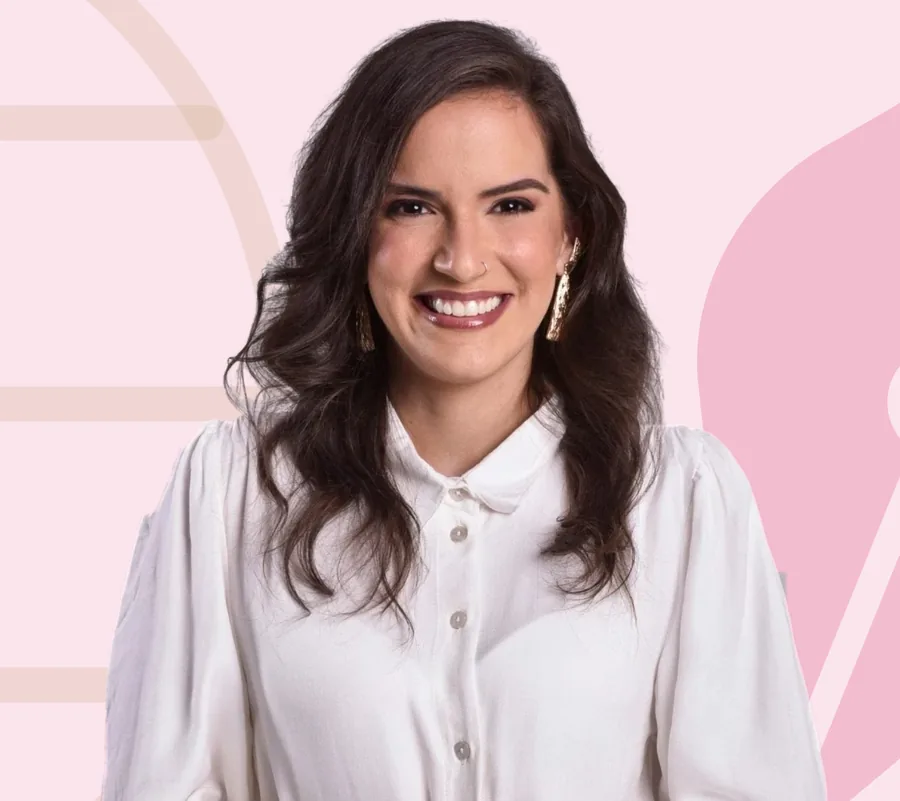
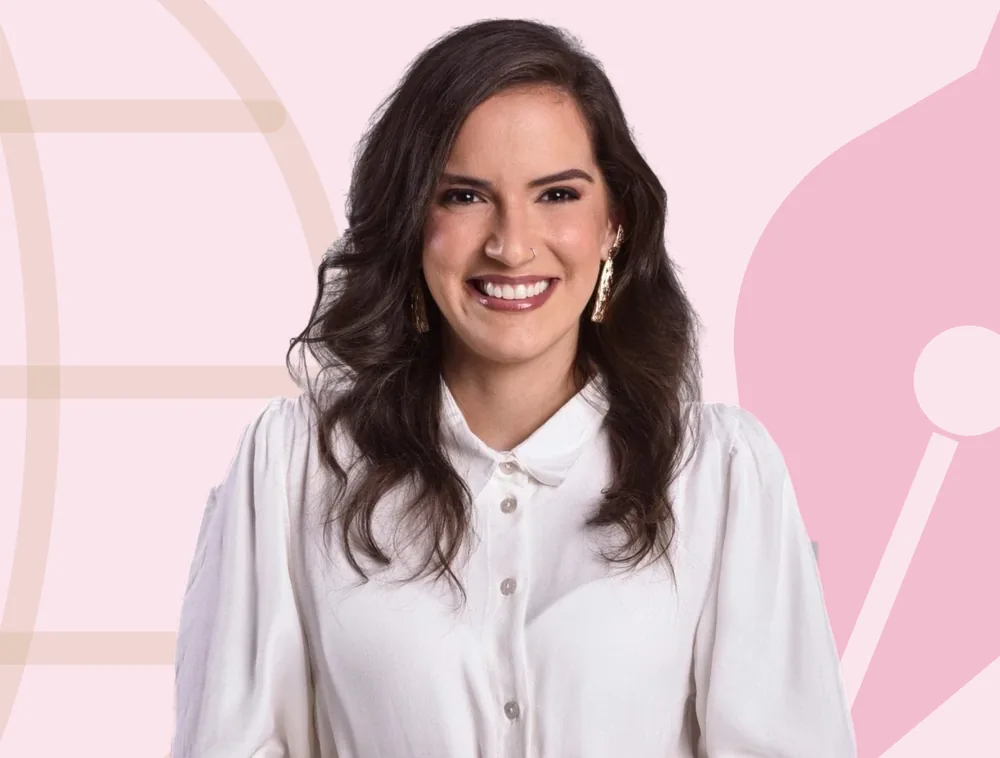
Fotos mais abertas e ordem dos cursos igual ao Time Radix

diff --git a/index.html b/index.html
@@ -139,8 +139,8 @@
     overflow: hidden; transition: transform .2s ease, border-color .2s ease, box-shadow .2s ease;
   }
   .card:hover { transform: translateY(-3px); border-color: color-mix(in srgb, var(--c) 45%, var(--line)); box-shadow: var(--shadow); }
-  .card-foto { position: relative; aspect-ratio: 9 / 7; background: color-mix(in srgb, var(--c) 14%, var(--surface)); border-bottom: 3px solid var(--c); overflow: hidden; }
-  .card-foto img { width: 100%; height: 100%; object-fit: cover; object-position: center top; display: block; transition: transform .3s ease; }
+  .card-foto { position: relative; aspect-ratio: 1000 / 758; background: color-mix(in srgb, var(--c) 14%, var(--surface)); border-bottom: 3px solid var(--c); overflow: hidden; }
+  .card-foto img { width: 100%; height: 100%; object-fit: cover; object-position: center bottom; display: block; transition: transform .3s ease; }
   .card:hover .card-foto img { transform: scale(1.03); }
   .badge {
     position: absolute; top: 14px; left: 14px; z-index: 1;
@@ -393,41 +393,42 @@
    preco: null    = "valor a definir". Número = valor integral do
                     curso; a página mostra também 10x (máximo do contrato).
    material: texto curto do valor do material (cobrado à parte).
-   foto: recorte do carrossel "Time Radix" do Instagram (time-*.webp).
+   foto: recorte do carrossel "Time Radix" do Instagram (time-*.webp);
+         ao trocar uma imagem, suba o ?v=N para furar o cache.
    ========================================================= */
 const RADIX_CURSOS = {
   whatsapp: '5584998131870',
   parcelasMax: 10,
   cursos: [
-    { id: 'matematica', classe: 'm', nome: 'Matemática', area: 'Exatas', prof: 'Hugo Gomes', foto: 'time-hugo.webp',
+    { id: 'matematica', classe: 'm', nome: 'Matemática', area: 'Exatas', prof: 'Hugo Gomes', foto: 'time-hugo.webp?v=2',
       modalidade: 'Presencial + online',
       itens: ['Terça presencial, das 8h30 às 12h ou das 14h30 às 18h', 'Quinta online e plataforma com aulas gravadas', 'Início em 28 de janeiro'],
       url: null, preco: 2800, material: 'Material R$ 360' },
-    { id: 'fisica', classe: 'f', nome: 'Física', area: 'Ciências da Natureza', prof: 'Rafael Medeiros', foto: 'time-rafael.webp',
+    { id: 'fisica', classe: 'f', nome: 'Física', area: 'Ciências da Natureza', prof: 'Rafael Medeiros', foto: 'time-rafael.webp?v=2',
       modalidade: 'Presencial + online',
       itens: ['Segunda presencial, das 14h às 17h30', 'Com Rafael Medeiros e Cezar Henrique', 'Início em 25 de janeiro'],
       url: null, preco: 3000, material: 'Material R$ 500 (4 volumes)' },
-    { id: 'biologia', classe: 'b', nome: 'Biologia', area: 'Ciências da Natureza', prof: 'Mateus Medeiros', foto: 'time-mateus.webp',
+    { id: 'biologia', classe: 'b', nome: 'Biologia', area: 'Ciências da Natureza', prof: 'Mateus Medeiros', foto: 'time-mateus.webp?v=2',
       modalidade: 'Presencial',
       itens: ['Quarta presencial, das 14h30 às 18h', 'Teoria, questões e módulo de revisão', 'Início em 27 de janeiro'],
       url: null, preco: 2800, material: 'Material digital R$ 249 ou impresso R$ 499' },
-    { id: 'redacao', classe: 'r', nome: 'Redação', area: 'Redação ENEM', prof: 'Rhayara Lira', foto: 'time-rhayara.webp',
+    { id: 'quimica', classe: 'q', nome: 'Química', area: 'Ciências da Natureza', prof: 'Thiago Magalhães', foto: 'time-thiago.webp?v=2',
+      modalidade: 'Presencial + online',
+      itens: ['Quinta presencial, das 14h às 18h', 'Plataforma com aulas gravadas e plantões', 'Início em 28 de janeiro'],
+      url: null, preco: 2700, material: 'Material R$ 360' },
+    { id: 'humanas', classe: 'h', nome: 'Humanas', area: 'Ciências Humanas', prof: 'Sandro Cocco', foto: 'time-sandro.webp?v=2',
+      modalidade: 'Presencial',
+      itens: ['Terça presencial, das 18h30 às 22h', 'Convidados em História e Geografia', 'Início em 2 de fevereiro'],
+      url: null, preco: 2600, material: 'Material R$ 350' },
+    { id: 'redacao', classe: 'r', nome: 'Redação', area: 'Redação ENEM', prof: 'Rhayara Lira', foto: 'time-rhayara.webp?v=2',
       modalidade: 'Presencial',
       itens: ['Sexta presencial, das 14h30 às 16h30, semana sim, semana não', 'Na outra semana, atendimento individual pelo Meet', 'Início em 22 de janeiro'],
       url: null, preco: 2400, material: 'Kit R$ 340: 3 apostilas, camisa, bag e bloco',
       nota: 'Turma online: R$ 1.400 (R$ 749 na Black Friday)' },
-    { id: 'linguagens', classe: 'l', nome: 'Linguagens', area: 'Linguagens', prof: 'Milene Lima', foto: 'time-milene.webp',
+    { id: 'linguagens', classe: 'l', nome: 'Linguagens', area: 'Linguagens', prof: 'Milene Lima', foto: 'time-milene.webp?v=2',
       modalidade: 'Presencial',
       itens: ['Quinta presencial, das 19h às 22h', 'Simulados autorais com TRI e listas extras', 'Início em 4 de fevereiro'],
-      url: null, preco: 2400, material: 'Material R$ 300' },
-    { id: 'quimica', classe: 'q', nome: 'Química', area: 'Ciências da Natureza', prof: 'Thiago Magalhães', foto: 'time-thiago.webp',
-      modalidade: 'Presencial + online',
-      itens: ['Quinta presencial, das 14h às 18h', 'Plataforma com aulas gravadas e plantões', 'Início em 28 de janeiro'],
-      url: null, preco: 2700, material: 'Material R$ 360' },
-    { id: 'humanas', classe: 'h', nome: 'Humanas', area: 'Ciências Humanas', prof: 'Sandro Cocco', foto: 'time-sandro.webp',
-      modalidade: 'Presencial',
-      itens: ['Terça presencial, das 18h30 às 22h', 'Convidados em História e Geografia', 'Início em 2 de fevereiro'],
-      url: null, preco: 2600, material: 'Material R$ 350' }
+      url: null, preco: 2400, material: 'Material R$ 300' }
   ]
 };
 
@@ -449,7 +450,7 @@ function render() {
     <article class="card ${c.classe}">
       <div class="card-foto">
         <span class="badge ${aberto ? 'open' : ''}">${aberto ? 'Matrículas abertas' : 'Em breve'}</span>
-        <img src="${esc(c.foto)}" alt="${esc(c.prof)}" loading="lazy" width="900" height="801">
+        <img src="${esc(c.foto)}" alt="${esc(c.prof)}" loading="lazy" width="1000" height="758">
       </div>
       <div class="card-body">
         <span class="area">Isolado ENEM 2027 / ${esc(c.area)}</span>
